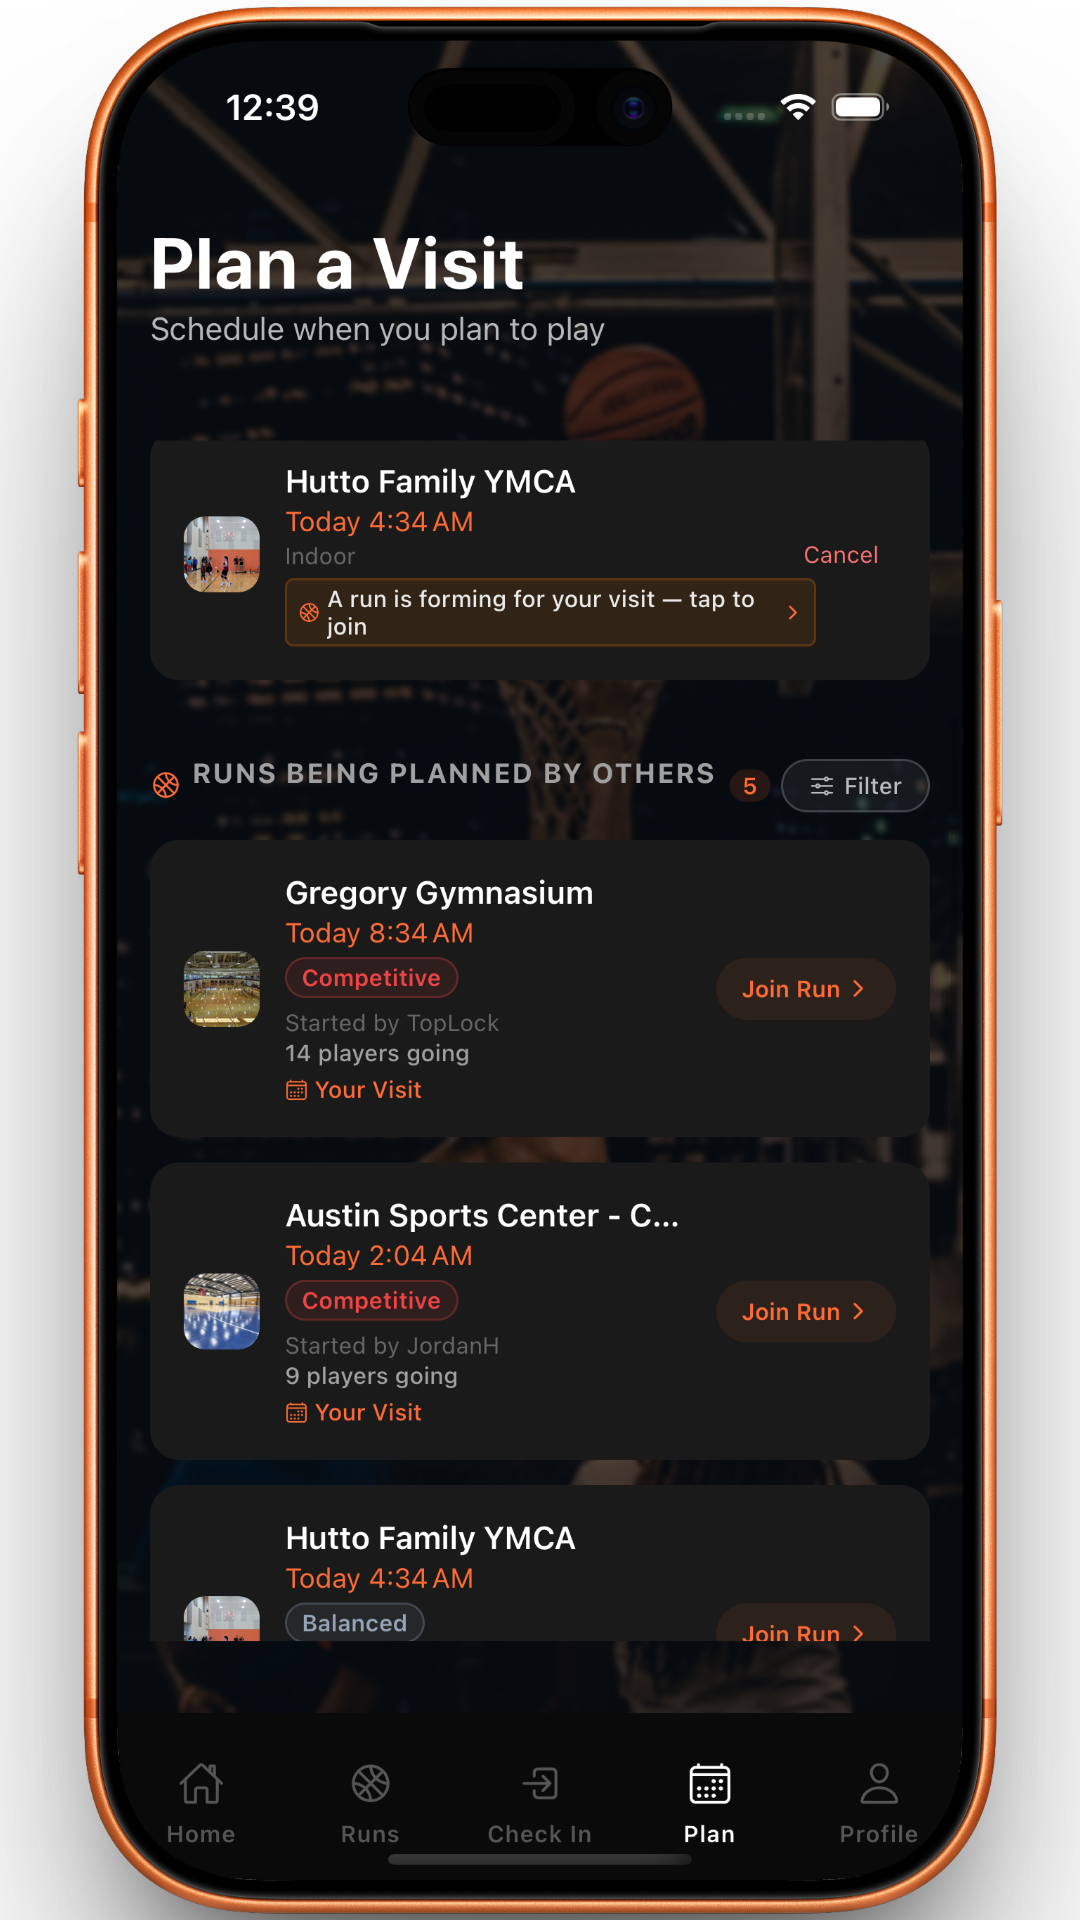
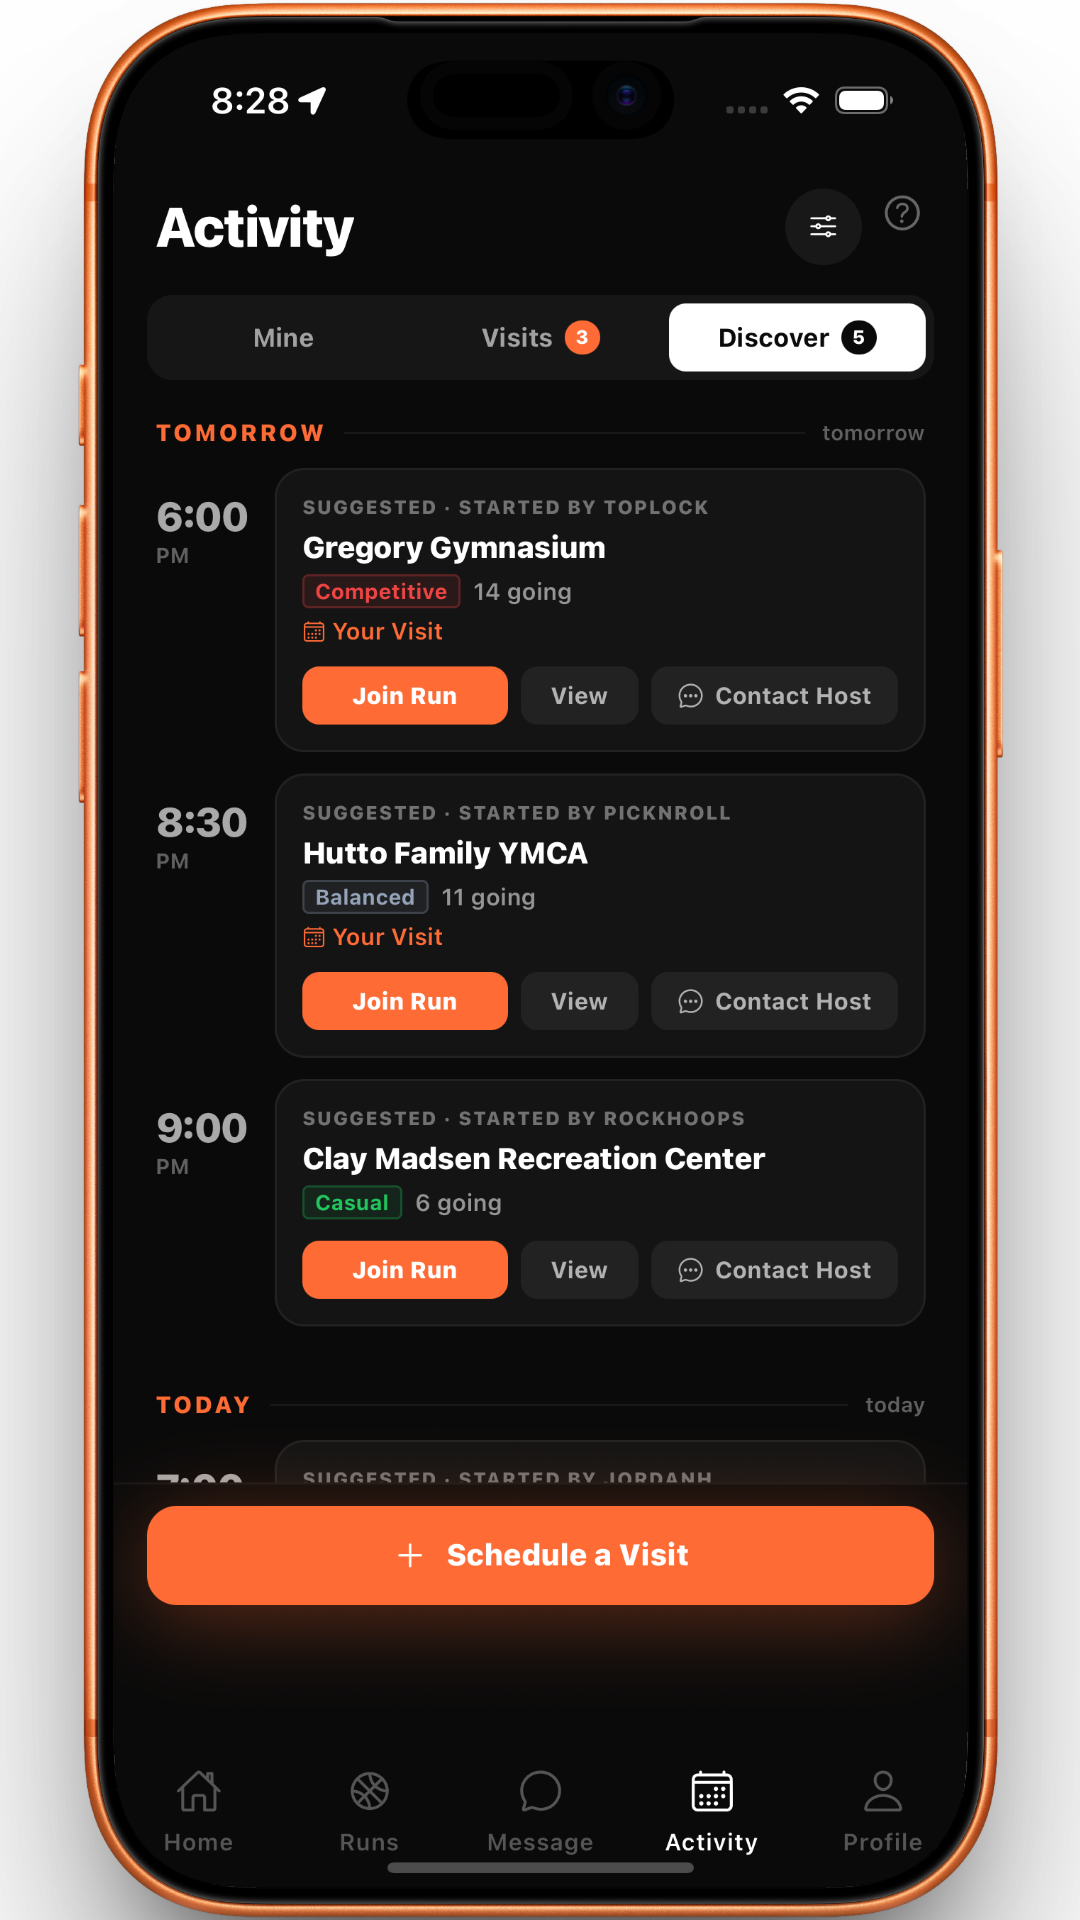
Replace all screenshots with new May UI: new Find a Run, Home, Map, Court Detail, Messages, showcase

diff --git a/app/page.tsx b/app/page.tsx
@@ -242,7 +242,7 @@ export default function Home() {
               style={{ y: phoneParallaxY }}
             >
               <IridescentPhone
-                src="/mockups/997shots_so.png"
+                src="/mockups/884shots_so.png"
                 alt="RunCheck — Find a Run screen"
                 className="w-[88vw] lg:w-[400px] xl:w-[460px]"
               />
@@ -426,9 +426,9 @@ export default function Home() {
         {/* ══ CORE FEATURES ═══════════════════════════════════ */}
         {(() => {
           const features = [
-            { icon: "👀", title: "Live Runs",          caption: "See exactly who's checked in and playing before you leave the house. No more showing up to an empty court.",     screenshot: "/mockups/940shots_so.png" },
+            { icon: "👀", title: "Live Runs",          caption: "See exactly who's checked in and playing before you leave the house. No more showing up to an empty court.",     screenshot: "/mockups/931shots_so.png" },
             { icon: "📅", title: "Plan a Run",         caption: "Schedule runs and invite players. People actually commit — and you can see who's confirmed before tip-off.", screenshot: "/mockups/775shots_so.png" },
-            { icon: "🗺", title: "Gym Map",            caption: "Find every active court near you on a live map. Filter by distance, level of play, or number of players.",             screenshot: "/mockups/738shots_so.png" },
+            { icon: "🗺", title: "Gym Map",            caption: "Find every active court near you on a live map. Filter by distance, level of play, or number of players.",             screenshot: "/mockups/421shots_so.png" },
             { icon: "🏀", title: "Player Visibility",  caption: "See player profiles, positions, and activity history. Know who you're running with before you step on the court.",              screenshot: "/mockups/484shots_so.png" },
             { icon: "✅", title: "Reliability System", caption: "Players earn reputation based on actual show-up rate. Run with people you can count on.",     screenshot: "/mockups/725shots_so.png" },
           ];
@@ -527,8 +527,8 @@ export default function Home() {
           </Reveal>
           <Reveal delay={100} className="w-full" variant="scale">
             <img
-              src="/mockups/759shots_so.png"
-              alt="RunCheck app — find a run, map, and court check-in screens"
+              src="/mockups/867shots_so.png"
+              alt="RunCheck app — activity schedule, find a run, and home screens"
               className="w-full mx-auto rounded-2xl [filter:drop-shadow(0_0_80px_rgba(249,115,22,0.15))_drop-shadow(0_40px_80px_rgba(0,0,0,0.8))]"
             />
           </Reveal>
@@ -554,15 +554,15 @@ export default function Home() {
                   step: "01", label: "Browse",
                   headline: "See who’s playing",
                   desc: "Browse active runs and live check-in counts before you leave.",
-                  mockup: "/mockups/997shots_so.png",
+                  mockup: "/mockups/884shots_so.png",
                   alt: "RunCheck — Find a Run screen",
                 },
                 {
                   step: "02", label: "Check in",
                   headline: "Check into a court",
                   desc: "Tap in when you arrive. Your count goes live instantly.",
-                  mockup: "/mockups/175shots_so.png",
-                  alt: "RunCheck — Court detail screen",
+                  mockup: "/mockups/394shots_so.png",
+                  alt: "RunCheck — Court check-in screen",
                 },
                 {
                   step: "03", label: "Plan",
@@ -650,7 +650,7 @@ export default function Home() {
                   label: "01 — Connect",
                   title: "Stay connected with your runs",
                   desc: "Chat with players before you arrive or coordinate in real time with run chats.",
-                  mockup: "/mockups/478shots_so.png",
+                  mockup: "/mockups/134shots_so.png",
                   alt: "RunCheck — Messaging screen",
                 },
                 {

diff --git a/app/how-it-works/page.tsx b/app/how-it-works/page.tsx
@@ -11,7 +11,7 @@ const steps = [
   {
     step: "01", label: "Browse",
     title: "Open the app and browse nearby courts",
-    mockup: "/mockups/738shots_so.png",
+    mockup: "/mockups/421shots_so.png",
     alt: "RunCheck — Nearby courts map screen",
     detail: {
       headline: "Every court near you, live.",
@@ -22,7 +22,7 @@ const steps = [
   {
     step: "02", label: "See what’s happening",
     title: "See who’s playing and what’s going on",
-    mockup: "/mockups/997shots_so.png",
+    mockup: "/mockups/884shots_so.png",
     alt: "RunCheck — Find a Run screen",
     detail: {
       headline: "Real info, before you leave.",
@@ -33,8 +33,8 @@ const steps = [
   {
     step: "03", label: "Check in",
     title: "Check in when you arrive",
-    mockup: "/mockups/175shots_so.png",
-    alt: "RunCheck — Court detail screen",
+    mockup: "/mockups/394shots_so.png",
+    alt: "RunCheck — Court check-in screen",
     detail: {
       headline: "Let the court know you’re there.",
       body: "When you get to the gym, tap Check In Here. RunCheck uses GPS to confirm you’re actually at the court — no ghosts, no fake check-ins. Your check-in shows up live for everyone browsing that court.",
@@ -318,7 +318,7 @@ export default function HowItWorksPage() {
                   label: "01 — Connect",
                   headline: "Stay connected with your runs",
                   desc: "Chat with players before you arrive or coordinate in real time with run chats.",
-                  mockup: "/mockups/478shots_so.png",
+                  mockup: "/mockups/134shots_so.png",
                   alt: "RunCheck — Messaging screen",
                 },
                 {
